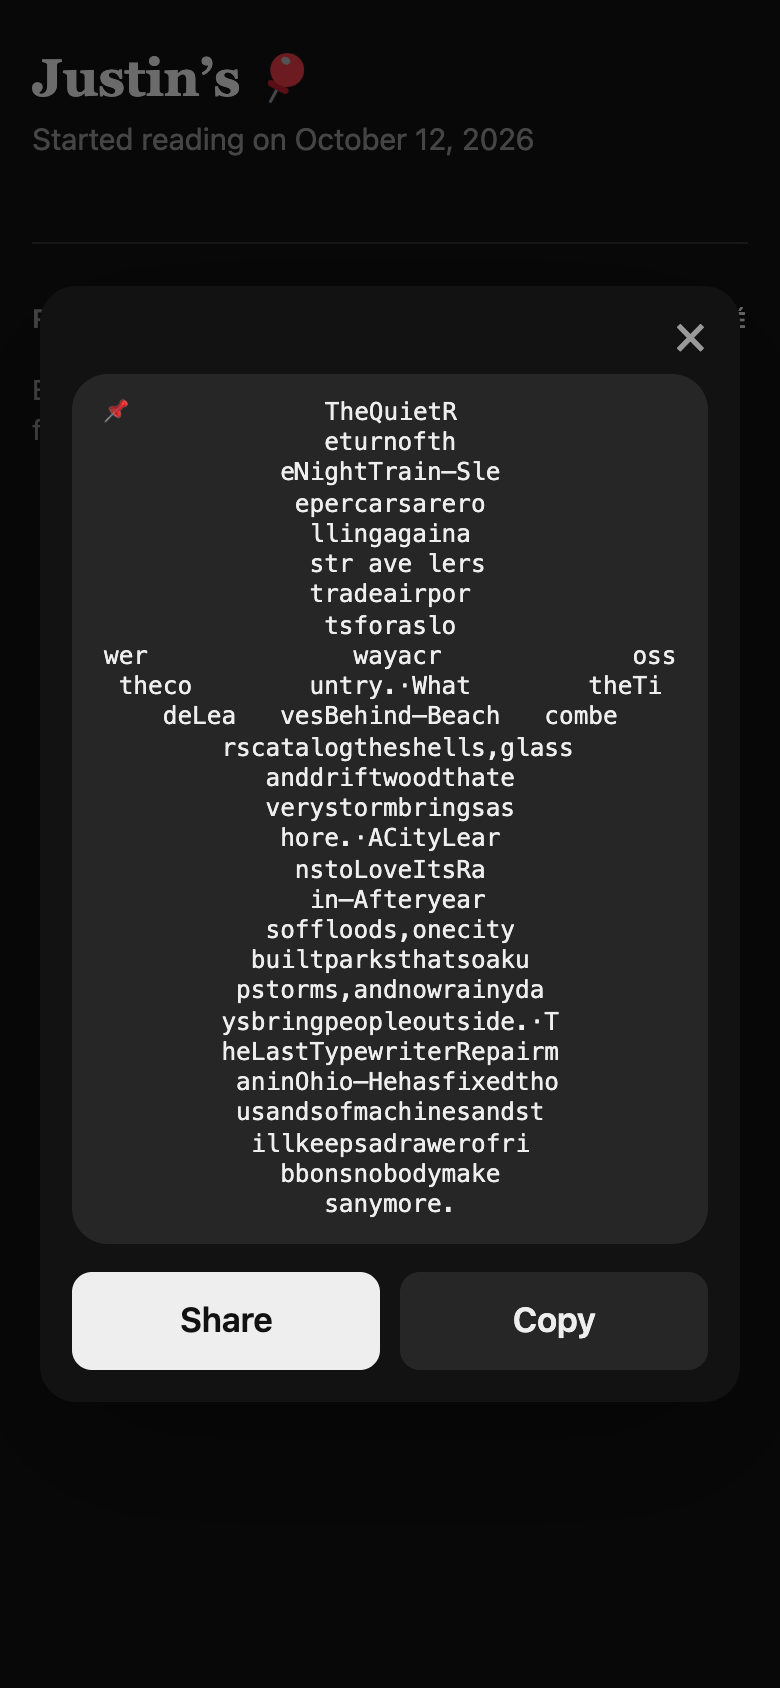
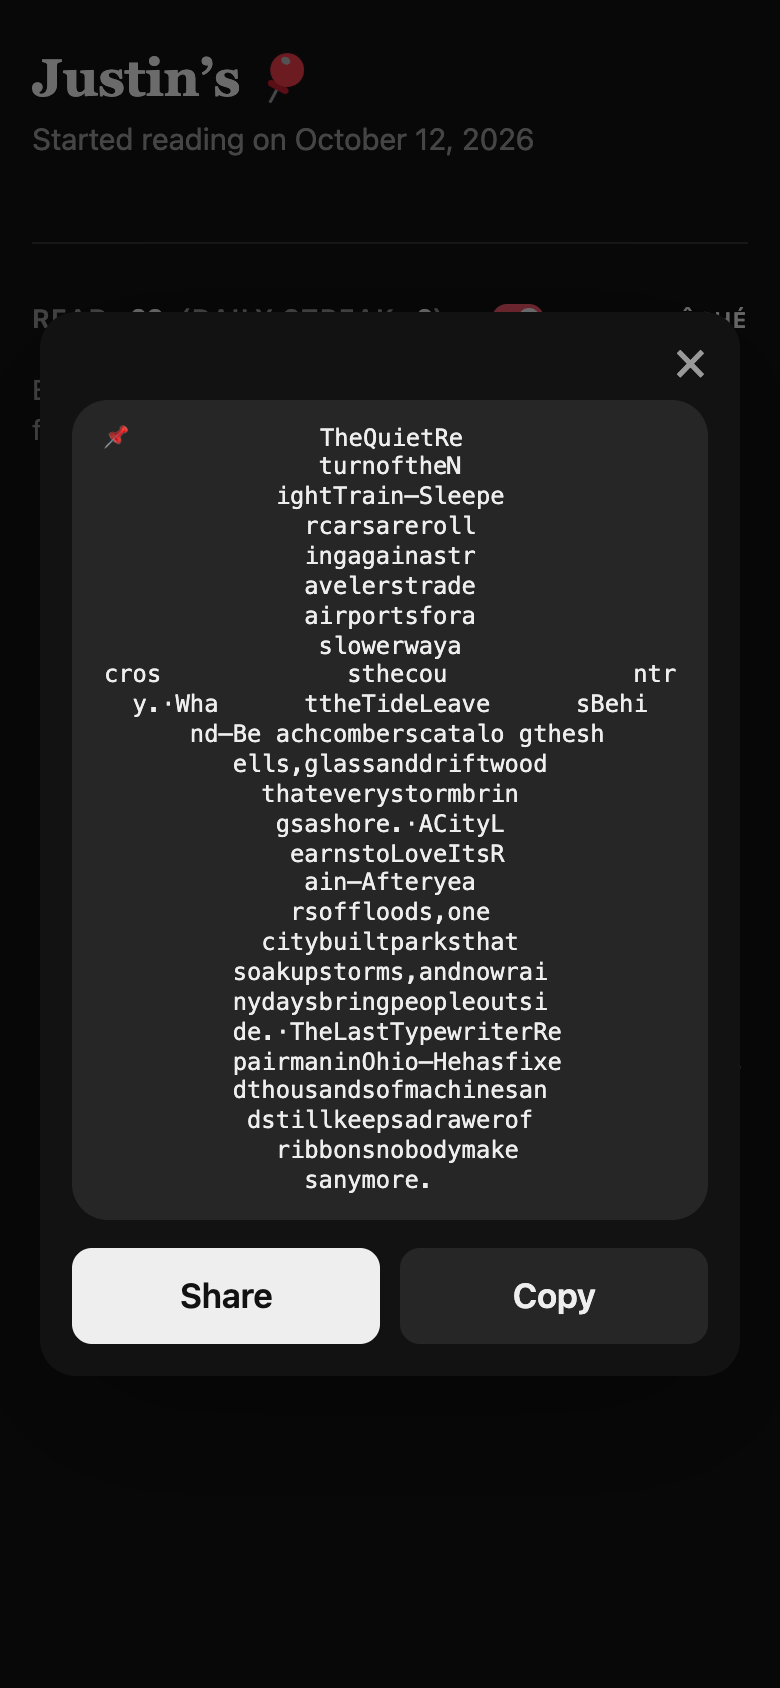
Daily pictures: the last line may end a little short, so no extra gaps between words and the shared text picks from many more grids

diff --git a/src/pushpin/cards.py b/src/pushpin/cards.py
@@ -612,7 +612,7 @@ function silhouette(w, h, flip, kind) {
   return (x, y) => mask[(y * w + x) * 4 + 3] > 127;
 }
 // Lays the text out once inside the shape, w x h, in type of size fs with lines `spread` times the
-// usual spacing and `extra` extra spaces between words: [char, x, y] for each glyph, and whether
+// usual spacing: [char, x, y] for each glyph, and whether
 // all of the text fit. Nothing repeats; what doesn't fit is left out. Thin parts still get letters:
 // a stretch narrower than a letter (but at least half as wide) takes one, centered, and a line
 // thinner than the row height counts if it's near the row.
@@ -645,24 +645,16 @@ function layout(w, h, text, inside, fs, spread = 1) {
 // The largest type at which all of the text fits in the shape once: the word art is scaled to
 // its text, so the text never runs out early or runs over. Then the slack is spread
 // out, so the text reaches the bottom (where handles, stems and legs often are) instead of
-// stopping short: the lines are spaced out, then a few words get a little more room.
+// stopping short: the lines are spaced out, leaving only the last line a little unfinished.
 function fitted(w, h, text, inside, top) {
   let fs = top, l = null;
   for (; fs > 2; fs *= 0.97) { l = layout(w, h, text, inside, fs); if (l.fit) break; }
   if (!l || !l.fit) return {...layout(w, h, text, inside, 2), fs: 2};
   let big = fs / 0.97;  // then the exact size between that and the step above, where it only just fits
   for (let k = 0; k < 8 && fs < top; k++) { const m = (fs + big) / 2; if (layout(w, h, text, inside, m).fit) fs = m; else big = m; }
-  let lo = 1, hi = 1.6;  // line spacing: the most that still fits
+  let lo = 1, hi = 1.6;  // line spacing: the most that still fits; only the last line ends short
   for (let k = 0; k < 8; k++) { const m = (lo + hi) / 2; if (layout(w, h, text, inside, fs, m).fit) lo = m; else hi = m; }
-  const gaps = [...text.matchAll(/ /g)].map(m => m.index);
-  const widen = n => {  // n of the gaps between words doubled, spread evenly through the text
-    if (!n) return text;
-    const pick = new Set(Array.from({length: n}, (_, j) => gaps[Math.floor((j + 0.5) * gaps.length / n)]));
-    return [...text].map((ch, j) => pick.has(j) ? '  ' : ch).join('');
-  };
-  let a = 0, b = gaps.length;
-  while (a < b) { const m = Math.ceil((a + b) / 2); if (layout(w, h, widen(m), inside, fs, lo).fit) a = m; else b = m - 1; }
-  return {...layout(w, h, widen(a), inside, fs, lo), fs};
+  return {...layout(w, h, text, inside, fs, lo), fs};
 }
 function draw(canvas, text, built, flip, animate, kind, delay) {
   const dpr = window.devicePixelRatio || 1; let w = Math.round(canvas.clientWidth), h = Math.round(w * 0.64);
@@ -743,22 +735,22 @@ function textDino(day, kind) {
   // Everything read that day, each once: every title followed by its whole abstract, starting with
   // the first title and ending on the period, no spaces inside the shape (so it has no holes). The
   // shape grows to fit the words, not the other way round: from the narrowest width up, grids (how
-  // much of a cell must be inside, how tall a character is) whose cells match the letters exactly,
-  // and one picked at random among the narrowest few (seeded, so it's the same each time and
-  // differs between readers).
+  // much of a cell must be inside, how tall a character is) the letters fill, leaving at most part
+  // of the last line blank, and one picked at random among the narrowest few (seeded, so it's the
+  // same each time and differs between readers).
   const r = rng(day.seed + ':share');
   const parts = day.parts.map(p => ({title: p.title.replace(/\\s+/g, ''), abstract: p.words.join('')}));
   const end = parts.length ? parts[parts.length - 1].abstract || parts[parts.length - 1].title : '';
   const letters = parts.map(p => p.title + (p.abstract ? '—' + p.abstract : '')).join('·') + (/[.!?]["”’]?$/.test(end) ? '' : '.');
-  const exact = []; let first = 0, roomy = null;
+  // grids the letters fill, leaving at most part of the last line blank
+  const fits = []; let first = 0, roomy = null;
   for (let cols = 10; cols <= 200 && !(first && cols > first + 3); cols++)
     for (const share of [0.2, 0.25, 0.3, 0.35, 0.4, 0.45, 0.5]) for (const tall of [1.8, 1.9, 2, 2.1, 2.2]) {
-      const t = grid(cols, share, tall);
-      if (t.count === letters.length) { exact.push(t); first ||= cols; }
+      const t = grid(cols, share, tall), lastRow = [...t.cells].reverse().find(row => row.some(Boolean)) || [];
+      if (t.count >= letters.length && t.count - letters.length <= lastRow.filter(Boolean).length) { fits.push(t); first ||= cols; }
       else if (t.count > letters.length && (!roomy || t.count < roomy.count)) roomy = t;
     }
-  // no exact fit (rare): the closest grid with room to spare, its last few cells left blank
-  const thin = exact.filter(t => t.share <= 0.3), pool = thin.length ? thin : exact;  // a low threshold keeps thin parts
+  const thin = fits.filter(t => t.share <= 0.3), pool = thin.length ? thin : fits;  // a low threshold keeps thin parts
   const g = pool.length ? pool[Math.floor(r() * pool.length)] : roomy;
   let i = 0;
   const lines = g.cells.map(row => row.map(v => v ? letters[i++] ?? ' ' : ' ').join('').trimEnd());

diff --git a/docs/demo-screens.md b/docs/demo-screens.md
@@ -42,61 +42,61 @@ day's word art" (Oct 23 · 0/4).
 Tapping a finished picture opens it as text to paste into any chat: the shape spelled out in
 everything read that day, every title with its whole abstract, from the first title to the final
 period, with 📌 in the top left corner. The shape grows to fit the words, so a busy day makes a
-bigger picture. Each picture is unique to its reader and day. **Share** opens the phone's share
-sheet; **Copy** copies it.
+bigger picture, and only the last line may end a little short. Each picture is unique to its
+reader and day. **Share** opens the phone's share sheet; **Copy** copies it.
 
 <img src="screens/share-sheet.png" width="300" alt="Share sheet on the demo profile: a snowman spelled out in the letters of the day's articles, with Share and Copy buttons">
 
 The demo's snowman and Brontosaurus, each made of the four articles read that day:
 
 ```
-📌             TheQuietR
-               eturnofth
-            eNightTrain—Sle
-             epercarsarero
-              llingagaina
-              str ave lers
-              tradeairpor
-               tsforaslo
-wer              wayacr             oss
- theco        untry.·What        theTi
-    deLea   vesBehind—Beach   combe
-        rscatalogtheshells,glass
-           anddriftwoodthate
-           verystormbringsas
-            hore.·ACityLear
-             nstoLoveItsRa
-              in—Afteryear
-           soffloods,onecity
-          builtparksthatsoaku
-         pstorms,andnowrainyda
-        ysbringpeopleoutside.·T
-        heLastTypewriterRepairm
-         aninOhio—Hehasfixedtho
-         usandsofmachinesandst
-          illkeepsadrawerofri
-            bbonsnobodymake
-               sanymore.
+📌             TheQuietRe
+               turnoftheN
+            ightTrain—Sleepe
+              rcarsareroll
+              ingagainastr
+              avelerstrade
+              airportsfora
+               slowerwaya
+cros             sthecou             ntr
+  y.·Wha      ttheTideLeave      sBehi
+      nd—Be achcomberscatalo gthesh
+         ells,glassanddriftwood
+           thateverystormbrin
+            gsashore.·ACityL
+             earnstoLoveItsR
+              ain—Afteryea
+             rsoffloods,one
+           citybuiltparksthat
+         soakupstorms,andnowrai
+         nydaysbringpeopleoutsi
+         de.·TheLastTypewriterRe
+         pairmaninOhio—Hehasfixe
+         dthousandsofmachinesan
+          dstillkeepsadrawerof
+            ribbonsnobodymake
+              sanymore.
 ```
 
 ```
-📌                                             Insidethe
-                                             RacetoMapthe
-                                            OceanFloor—Sc
-                                           ientistsands
-                                         onarshipsa
-                          rechart      ingthevasts
-                   eabedthatremainslessknownthan
-               themoon.·WhyEveryoneIsBakingBre
-           adAgain—Sourdoughstartersarepassed
-        handtohandashomebakersrediscoveraslo
-      w,patientcraft.·TheSecretLifeofSubwayPi
-    geons—Thebirdsthatridethetrainsknowthesc
-  hedulesbetterthanmanycommutersdo.·HowaSma
- llTownSavedItsLibrary—Whenthecountycutitsb
-udg                 et,residentsheldb akesa
-                    lesandrais   eden ought
-                    okeep thed   oors open.
+📌                                           Insideth
+                                           eRacetoMapt
+                                          heOceanFloor
+                                         —Scientistsa
+                                       ndsonarshi
+                                      psarechart
+                    ingthevastseabedthatremain
+                slessknownthanthemoon.·WhyEve
+            ryoneIsBakingBreadAgain—Sourdou
+         ghstartersarepassedhandtohandasho
+       mebakersrediscoveraslow,patientcraf
+     t.·TheSecretLifeofSubwayPigeons—Thebi
+   rdsthatridethetrainsknowtheschedulesbe
+  tterthanmanycommutersdo.·HowaSmallTownS
+avedItsLibrary—Whenthecountycutitsbudget,
+                   residentsheldbak esale
+                   sandraised  enou ghtok
+                   eept hedoo  rsop en.
 ```
 
 ## Before the first push: the welcome page
